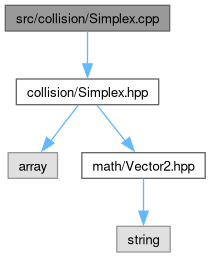
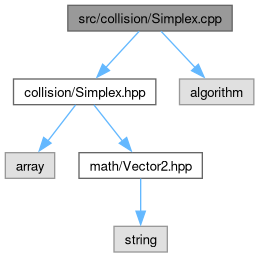
deploy: 4385f574dc6cb19e1f5e1a50dc6ef7f803374165

diff --git a/_simplex_8hpp_source.html b/_simplex_8hpp_source.html
@@ -125,15 +125,15 @@ $(document).ready(function(){initNavTree('_simplex_8hpp_source.html',''); initRe
 <div class="ttc" id="a_vector2_8hpp_html"><div class="ttname"><a href="_vector2_8hpp.html">Vector2.hpp</a></div><div class="ttdoc">Contains the Vector2 struct.</div></div>
 <div class="ttc" id="anamespacestw_html"><div class="ttname"><a href="namespacestw.html">stw</a></div><div class="ttdef"><b>Definition</b> BroadPhaseGrid.hpp:18</div></div>
 <div class="ttc" id="astructstw_1_1_simplex_html"><div class="ttname"><a href="structstw_1_1_simplex.html">stw::Simplex</a></div><div class="ttdoc">Struct representing the simplest form that can &quot;select&quot; an area in any dimension.</div><div class="ttdef"><b>Definition</b> Simplex.hpp:23</div></div>
-<div class="ttc" id="astructstw_1_1_simplex_html_a07da8e8e08501b9ddc2babbbfcdbbc03"><div class="ttname"><a href="structstw_1_1_simplex.html#a07da8e8e08501b9ddc2babbbfcdbbc03">stw::Simplex::Size</a></div><div class="ttdeci">std::size_t Size() const</div><div class="ttdoc">Gets the size of the array.</div><div class="ttdef"><b>Definition</b> Simplex.cpp:27</div></div>
+<div class="ttc" id="astructstw_1_1_simplex_html_a07da8e8e08501b9ddc2babbbfcdbbc03"><div class="ttname"><a href="structstw_1_1_simplex.html#a07da8e8e08501b9ddc2babbbfcdbbc03">stw::Simplex::Size</a></div><div class="ttdeci">std::size_t Size() const</div><div class="ttdoc">Gets the size of the array.</div><div class="ttdef"><b>Definition</b> Simplex.cpp:29</div></div>
 <div class="ttc" id="astructstw_1_1_simplex_html_a34713c8d01a4f9e47a284bae0ce4bd68"><div class="ttname"><a href="structstw_1_1_simplex.html#a34713c8d01a4f9e47a284bae0ce4bd68">stw::Simplex::Simplex</a></div><div class="ttdeci">Simplex()</div><div class="ttdef"><b>Definition</b> Simplex.hpp:29</div></div>
-<div class="ttc" id="astructstw_1_1_simplex_html_a4161f78f6b269f598ced75231ad40090"><div class="ttname"><a href="structstw_1_1_simplex.html#a4161f78f6b269f598ced75231ad40090">stw::Simplex::PushFront</a></div><div class="ttdeci">void PushFront(Vector2 point)</div><div class="ttdoc">Adds a point in the simplex.</div><div class="ttdef"><b>Definition</b> Simplex.cpp:21</div></div>
-<div class="ttc" id="astructstw_1_1_simplex_html_a546969e8fbffd2f754cfc82ebc54a637"><div class="ttname"><a href="structstw_1_1_simplex.html#a546969e8fbffd2f754cfc82ebc54a637">stw::Simplex::Begin</a></div><div class="ttdeci">std::array&lt; Vector2, MAX_SIZE &gt;::const_iterator Begin() const</div><div class="ttdef"><b>Definition</b> Simplex.cpp:42</div></div>
-<div class="ttc" id="astructstw_1_1_simplex_html_a6b6375e599084a81cd8774ea4db2bf2b"><div class="ttname"><a href="structstw_1_1_simplex.html#a6b6375e599084a81cd8774ea4db2bf2b">stw::Simplex::operator[]</a></div><div class="ttdeci">Vector2 operator[](std::size_t i) const</div><div class="ttdef"><b>Definition</b> Simplex.cpp:16</div></div>
-<div class="ttc" id="astructstw_1_1_simplex_html_a837f29559688afbff9c5b8dd39869e01"><div class="ttname"><a href="structstw_1_1_simplex.html#a837f29559688afbff9c5b8dd39869e01">stw::Simplex::IncrementSize</a></div><div class="ttdeci">void IncrementSize()</div><div class="ttdoc">Increments the size of the simplex with a max at MAX_SIZE.</div><div class="ttdef"><b>Definition</b> Simplex.cpp:32</div></div>
+<div class="ttc" id="astructstw_1_1_simplex_html_a4161f78f6b269f598ced75231ad40090"><div class="ttname"><a href="structstw_1_1_simplex.html#a4161f78f6b269f598ced75231ad40090">stw::Simplex::PushFront</a></div><div class="ttdeci">void PushFront(Vector2 point)</div><div class="ttdoc">Adds a point in the simplex.</div><div class="ttdef"><b>Definition</b> Simplex.cpp:23</div></div>
+<div class="ttc" id="astructstw_1_1_simplex_html_a546969e8fbffd2f754cfc82ebc54a637"><div class="ttname"><a href="structstw_1_1_simplex.html#a546969e8fbffd2f754cfc82ebc54a637">stw::Simplex::Begin</a></div><div class="ttdeci">std::array&lt; Vector2, MAX_SIZE &gt;::const_iterator Begin() const</div><div class="ttdef"><b>Definition</b> Simplex.cpp:44</div></div>
+<div class="ttc" id="astructstw_1_1_simplex_html_a6b6375e599084a81cd8774ea4db2bf2b"><div class="ttname"><a href="structstw_1_1_simplex.html#a6b6375e599084a81cd8774ea4db2bf2b">stw::Simplex::operator[]</a></div><div class="ttdeci">Vector2 operator[](std::size_t i) const</div><div class="ttdef"><b>Definition</b> Simplex.cpp:18</div></div>
+<div class="ttc" id="astructstw_1_1_simplex_html_a837f29559688afbff9c5b8dd39869e01"><div class="ttname"><a href="structstw_1_1_simplex.html#a837f29559688afbff9c5b8dd39869e01">stw::Simplex::IncrementSize</a></div><div class="ttdeci">void IncrementSize()</div><div class="ttdoc">Increments the size of the simplex with a max at MAX_SIZE.</div><div class="ttdef"><b>Definition</b> Simplex.cpp:34</div></div>
 <div class="ttc" id="astructstw_1_1_simplex_html_a949677fdf13dfa857024d4fcb9d5a208"><div class="ttname"><a href="structstw_1_1_simplex.html#a949677fdf13dfa857024d4fcb9d5a208">stw::Simplex::MAX_SIZE</a></div><div class="ttdeci">static constexpr unsigned long long MAX_SIZE</div><div class="ttdoc">The max size of this simplex.</div><div class="ttdef"><b>Definition</b> Simplex.hpp:27</div></div>
-<div class="ttc" id="astructstw_1_1_simplex_html_ac3feaaead5bc0e97d29816637f3cab40"><div class="ttname"><a href="structstw_1_1_simplex.html#ac3feaaead5bc0e97d29816637f3cab40">stw::Simplex::operator=</a></div><div class="ttdeci">Simplex &amp; operator=(std::initializer_list&lt; Vector2 &gt; list)</div><div class="ttdef"><b>Definition</b> Simplex.cpp:5</div></div>
-<div class="ttc" id="astructstw_1_1_simplex_html_afd6a09bea27afceb1a617b4c7ea2f219"><div class="ttname"><a href="structstw_1_1_simplex.html#afd6a09bea27afceb1a617b4c7ea2f219">stw::Simplex::End</a></div><div class="ttdeci">std::array&lt; Vector2, MAX_SIZE &gt;::const_iterator End() const</div><div class="ttdef"><b>Definition</b> Simplex.cpp:37</div></div>
+<div class="ttc" id="astructstw_1_1_simplex_html_ac3feaaead5bc0e97d29816637f3cab40"><div class="ttname"><a href="structstw_1_1_simplex.html#ac3feaaead5bc0e97d29816637f3cab40">stw::Simplex::operator=</a></div><div class="ttdeci">Simplex &amp; operator=(std::initializer_list&lt; Vector2 &gt; list)</div><div class="ttdef"><b>Definition</b> Simplex.cpp:7</div></div>
+<div class="ttc" id="astructstw_1_1_simplex_html_afd6a09bea27afceb1a617b4c7ea2f219"><div class="ttname"><a href="structstw_1_1_simplex.html#afd6a09bea27afceb1a617b4c7ea2f219">stw::Simplex::End</a></div><div class="ttdeci">std::array&lt; Vector2, MAX_SIZE &gt;::const_iterator End() const</div><div class="ttdef"><b>Definition</b> Simplex.cpp:39</div></div>
 <div class="ttc" id="astructstw_1_1_vector2_html"><div class="ttname"><a href="structstw_1_1_vector2.html">stw::Vector2</a></div><div class="ttdoc">A struct representing a 2D Vector.</div><div class="ttdef"><b>Definition</b> Vector2.hpp:21</div></div>
 </div><!-- fragment --></div><!-- contents -->
 </div><!-- doc-content -->

diff --git a/_simplex_8cpp.html b/_simplex_8cpp.html
@@ -95,20 +95,23 @@ $(document).ready(function(){initNavTree('_simplex_8cpp.html',''); initResizable
 </div><!--header-->
 <div class="contents">
 <div class="textblock"><code>#include &quot;<a class="el" href="_simplex_8hpp_source.html">collision/Simplex.hpp</a>&quot;</code><br />
+<code>#include &lt;algorithm&gt;</code><br />
 </div><div class="textblock"><div class="dynheader">
 Include dependency graph for Simplex.cpp:</div>
 <div class="dyncontent">
 <div class="center"><img src="_simplex_8cpp__incl.png" border="0" usemap="#asrc_2collision_2_simplex_8cpp" alt=""/></div>
 <map name="asrc_2collision_2_simplex_8cpp" id="asrc_2collision_2_simplex_8cpp">
-<area shape="rect" title=" " alt="" coords="5,5,170,31"/>
-<area shape="rect" href="_simplex_8hpp.html" title="Contains the Simplex struct." alt="" coords="16,79,159,105"/>
-<area shape="poly" title=" " alt="" coords="90,31,90,64,85,64,85,31"/>
-<area shape="rect" title=" " alt="" coords="8,153,58,178"/>
-<area shape="poly" title=" " alt="" coords="81,107,53,142,49,139,76,103"/>
-<area shape="rect" href="_vector2_8hpp.html" title="Contains the Vector2 struct." alt="" coords="82,153,205,178"/>
-<area shape="poly" title=" " alt="" coords="99,103,127,139,123,142,95,107"/>
-<area shape="rect" title=" " alt="" coords="117,226,170,252"/>
-<area shape="poly" title=" " alt="" coords="146,179,146,211,141,211,141,179"/>
+<area shape="rect" title=" " alt="" coords="68,5,232,31"/>
+<area shape="rect" href="_simplex_8hpp.html" title="Contains the Simplex struct." alt="" coords="14,79,156,105"/>
+<area shape="poly" title=" " alt="" coords="141,33,108,70,104,66,137,29"/>
+<area shape="rect" title=" " alt="" coords="180,79,254,105"/>
+<area shape="poly" title=" " alt="" coords="163,29,198,66,194,70,159,33"/>
+<area shape="rect" title=" " alt="" coords="5,153,55,178"/>
+<area shape="poly" title=" " alt="" coords="78,107,50,142,46,139,74,103"/>
+<area shape="rect" href="_vector2_8hpp.html" title="Contains the Vector2 struct." alt="" coords="79,153,202,178"/>
+<area shape="poly" title=" " alt="" coords="96,103,124,139,120,142,92,107"/>
+<area shape="rect" title=" " alt="" coords="114,226,167,252"/>
+<area shape="poly" title=" " alt="" coords="143,179,143,211,138,211,138,179"/>
 </map>
 </div>
 </div><table class="memberdecls">
